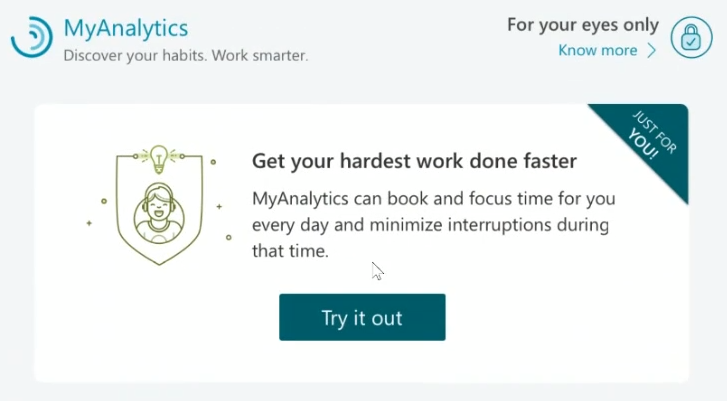
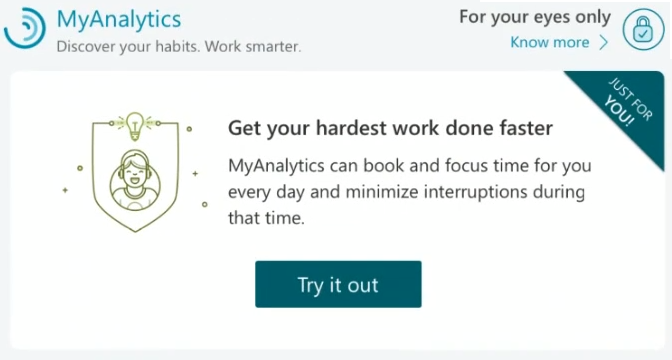
resize image

diff --git a/WorkplaceAnalytics/MyAnalytics/Use/mya-focus-plan.md b/WorkplaceAnalytics/MyAnalytics/Use/mya-focus-plan.md
@@ -157,7 +157,7 @@ As a MyAnalytics user, you might become aware of the focus plan when you see foc
 
 _Focus plan prompt in the email digest:_ 
 
-![Focus prompt in the email digest](../../Images/mya/use/focus-prompt-in-email-digest.png)
+![Focus prompt in the email digest](../../Images/mya/use/focus-prompt-in-email-digest-75-90.png)
  
 _Focus plan prompt in the dashboard:_
   
